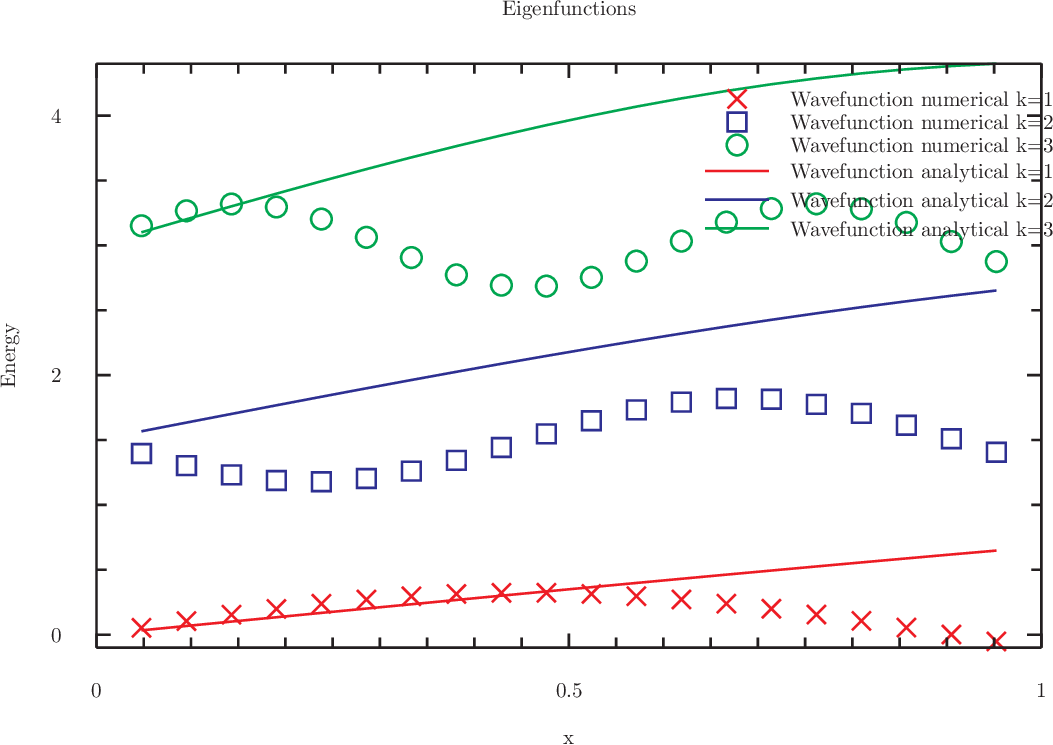
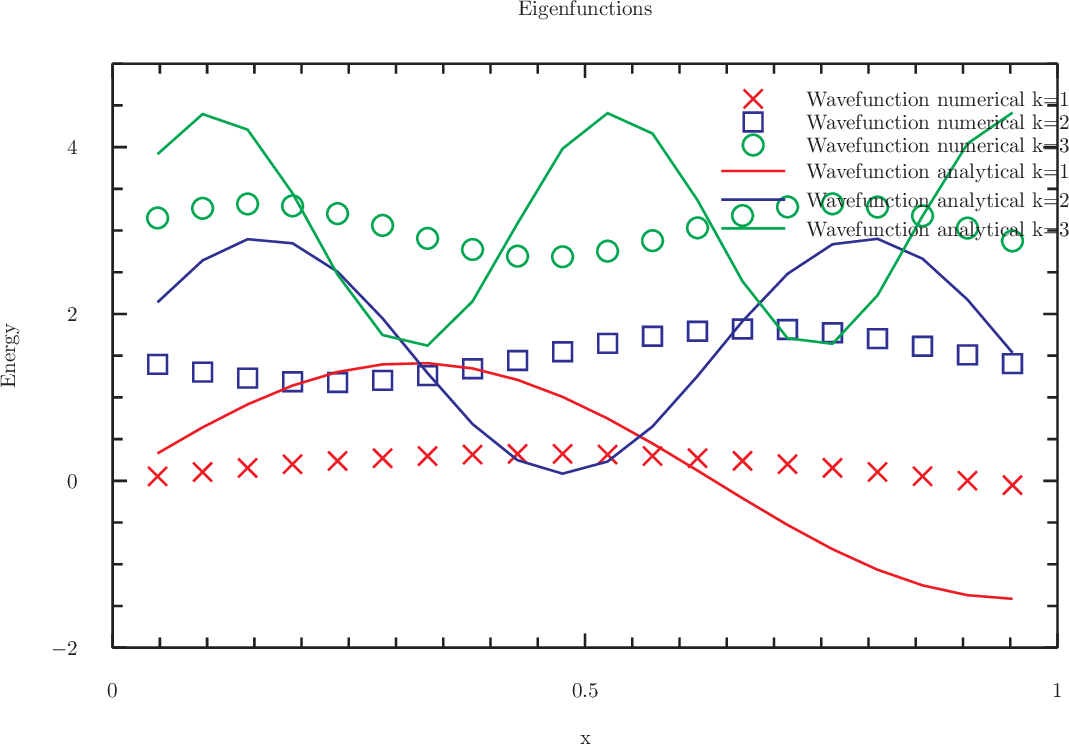
Initial commit

diff --git a/homework/MatrixDiagonalization/main.c b/homework/MatrixDiagonalization/main.c
@@ -144,7 +144,7 @@ matrix_print("Mit V som er eigenfunktioner:",V_h);
 printf("k: calculated vs exact (hbar^2/2mL^2=1)\n");
 for (int k=0; k < N/3; k++){
 	double exact = M_PI*M_PI*(k+1)*(k+1);
-	double calculated = gsl_matrix_get(H,k,k);
+	double calculated = gsl_matrix_get(H,k+1,k+1);
    	printf("%i %g %g\n",k,calculated,exact);}
 
 printf("\n\n");
@@ -153,13 +153,9 @@ printf("\n\n");
 printf("#index1: numerical vs analytical\n");
  	for(int i=0;i<N;i++){
 	double k=(i+1.0)/(N+1);
-	printf("%6g %6g %6g %6g %6g %6g %6g\n",k, gsl_matrix_get(V_h,i,1), gsl_matrix_get(V_h,i,2)+1.5, gsl_matrix_get(V_h,i,3)+3, sqrt(2)*sin(k/2),sqrt(2)*sin(2*k/2)+1.5,sqrt(2)*sin(3*k/2)+3);
+	printf("%6g %6g %6g %6g %6g %6g %6g\n",k, gsl_matrix_get(V_h,i,1), gsl_matrix_get(V_h,i,2)+1.5, gsl_matrix_get(V_h,i,3)+3, sqrt(2)*sin(M_PI*M_PI*k/2),sqrt(2)*sin(M_PI*M_PI*2*k/2)+1.5,sqrt(2)*sin(M_PI*M_PI*3*k/2)+3);
 	}
 printf("\n\n");
-
-
-
-
 
 
 
